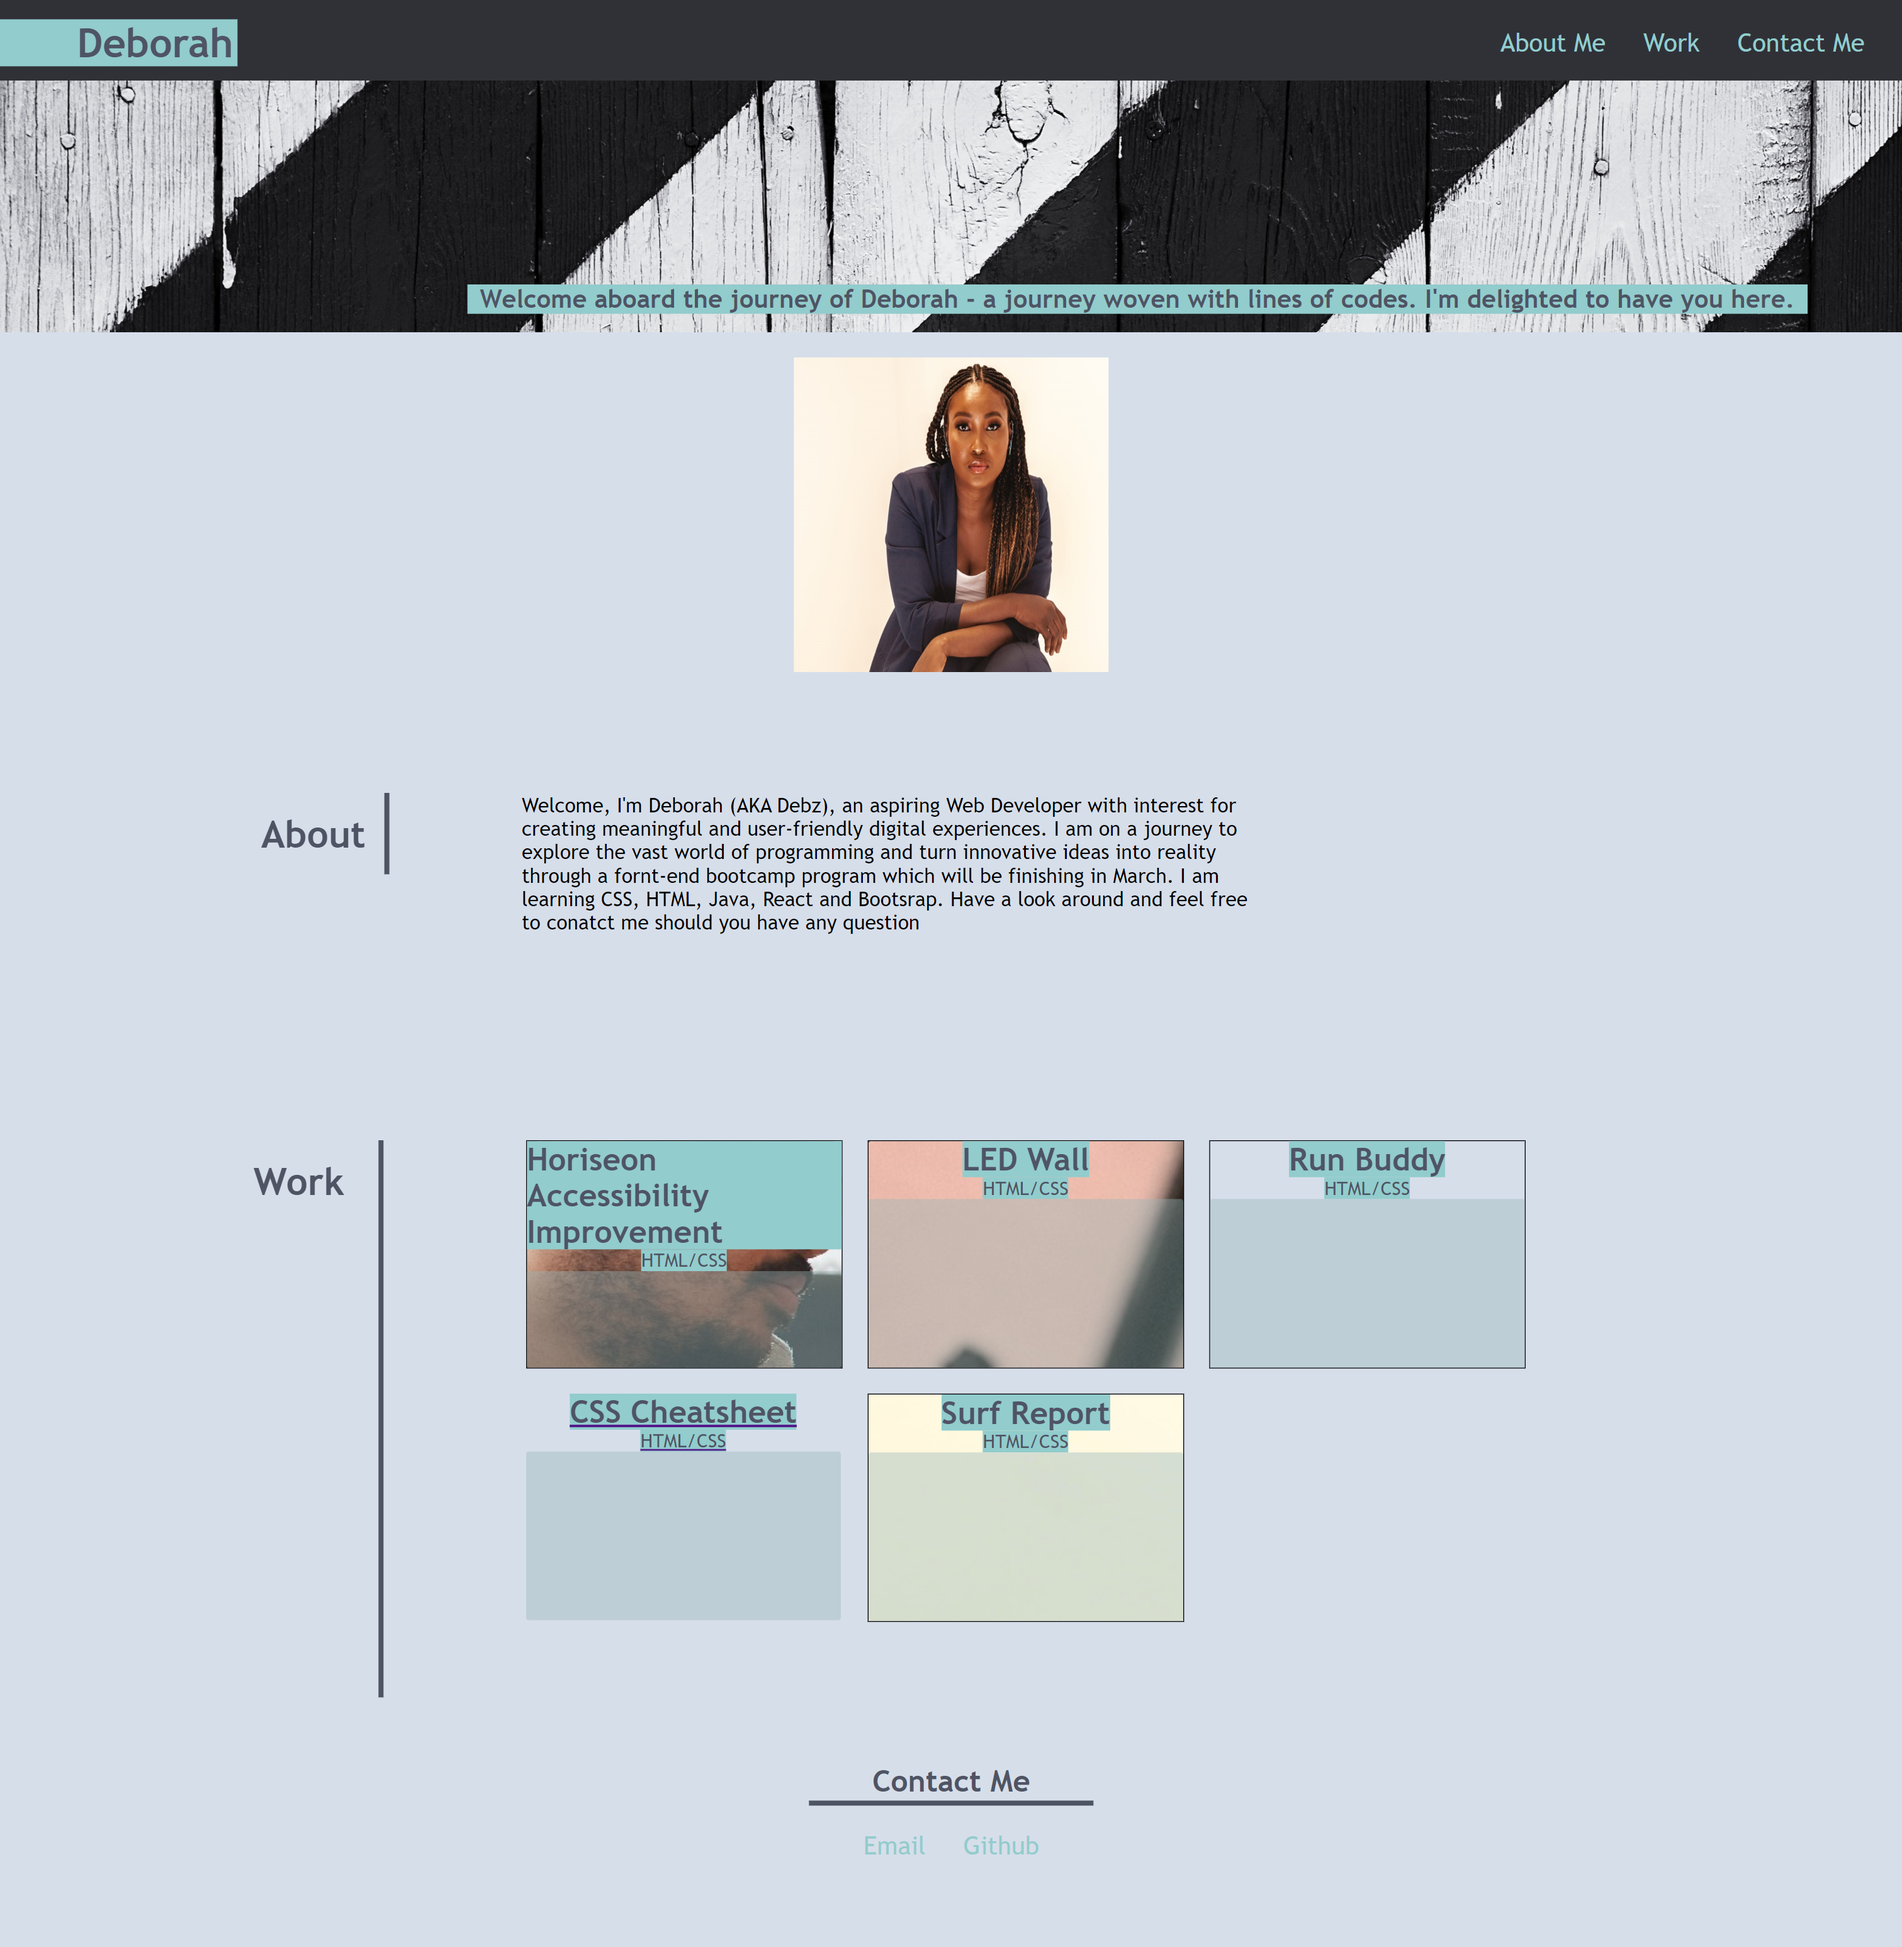
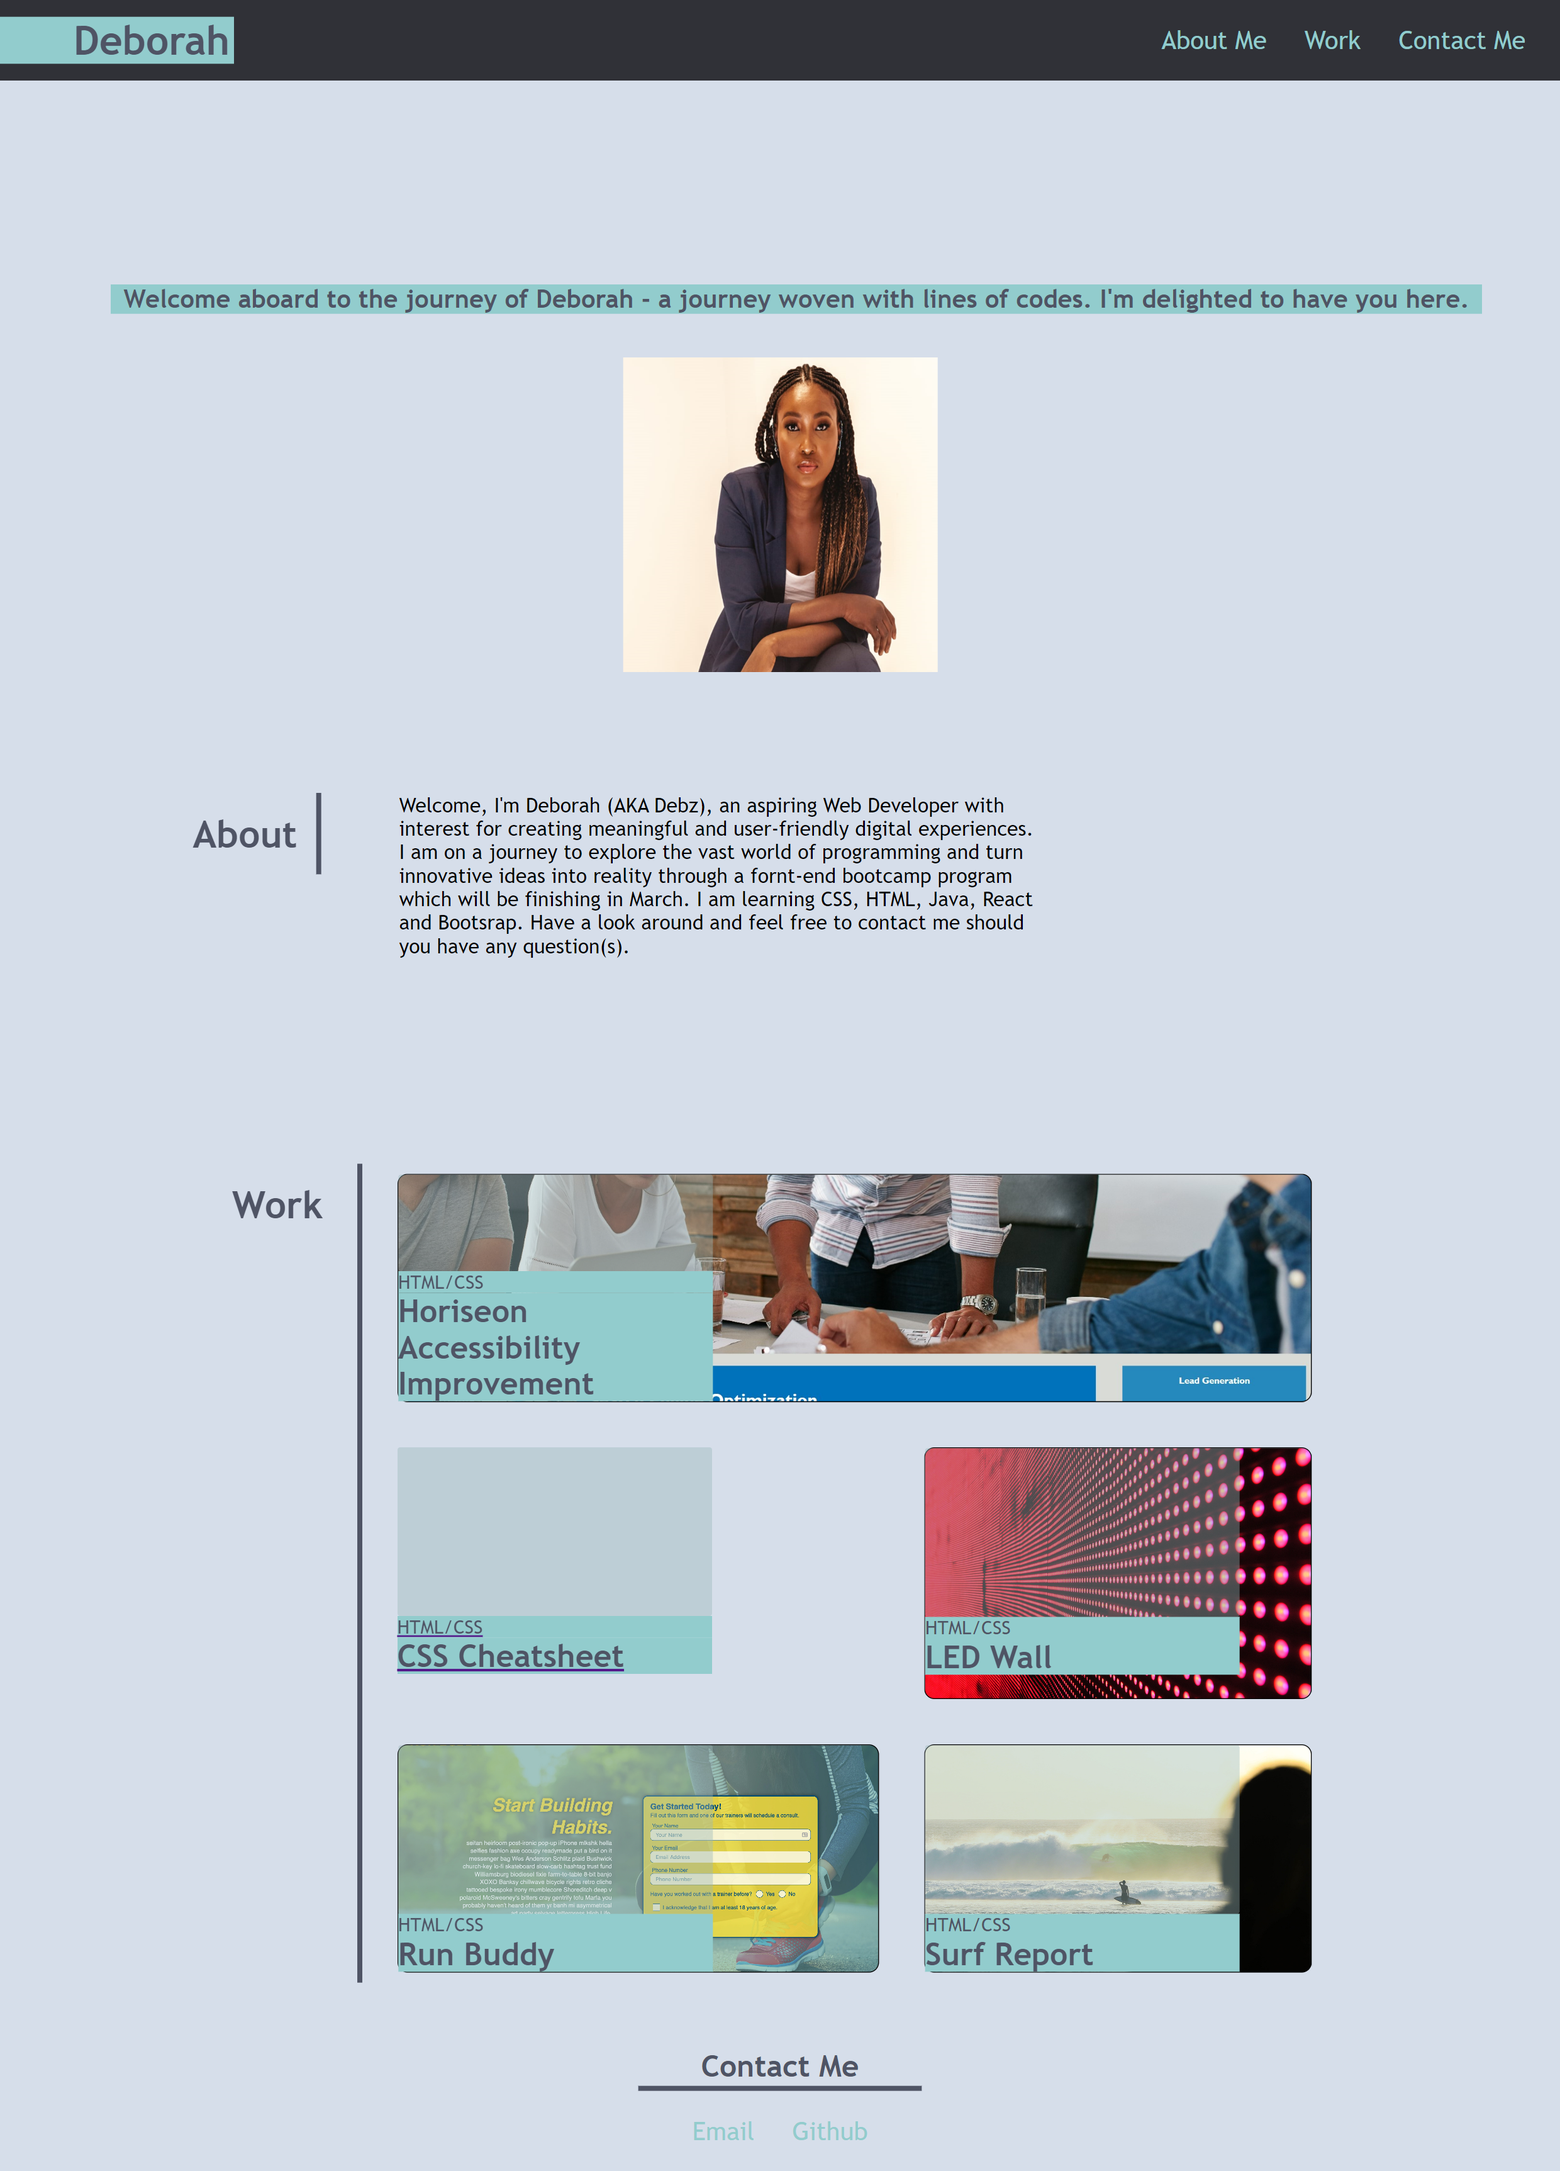
add more mediaQ ans css

diff --git a/style.css b/style.css
@@ -159,10 +159,11 @@ position: relative;
   
 }
 
-.aboutC p{
+.aboutC article{
   grid-area: aboutC;
+  display: flex;
   justify-content: center;
-  padding: 0px 43px;
+  max-width: 720px;
   margin-top: 4rem;
 }
 
@@ -236,8 +237,6 @@ position: relative;
 .workC{
   grid-area: workC;
   display: grid;
-  justify-content: center;
-  align-content: center;
   grid-template-columns: ( 150px 150px 150px );
   grid-template-rows: (120px 120px 120px 120px) ;
   gap: 20px;
@@ -257,9 +256,10 @@ position: relative;
   
 }
 
+
 .project1{
-  grid-template-areas: project1;
-  background-image: url(./images_png/project1.png);
+  grid-area: project1;
+  background-image: url(../images_png/project1.png);
   cursor: not-allowed;
   /* grid-column-start: 1;
   grid-column-end: 4;
@@ -269,8 +269,8 @@ position: relative;
   }
   
   .project2{
-    grid-template-areas: project2;
-    background-image: url(./images_png/02-portfolio-2.png);
+    grid-area: project2;
+    background-image: url(../images_png/02-portfolio-1.png);
     cursor: not-allowed;
     /* grid-column-start: 3;
     grid-column-end: 4;
@@ -279,8 +279,8 @@ position: relative;
    */
   }
   .project3{
-    grid-template-areas: project3;
-  background-image: url(./images_png/02-run-buddy.png);
+    grid-area: project3;
+  background-image: url(../images_png/02-run-buddy.png);
   cursor:not-allowed;
   /* grid-column-start: 1;
     grid-column-end: 3;
@@ -290,8 +290,8 @@ position: relative;
   
   .project4{
   
-    grid-template-areas: project4;
-    background-image: url(./images_png/project4.png);
+    grid-area: project4;
+    background-image: url(../images_png/css\ cheatsheet.png);
     cursor: pointer;
     /* grid-column-start: 1;
     grid-column-end: 3;
@@ -301,13 +301,24 @@ position: relative;
   
   .project5{
   
-    grid-template-areas: project5;
+  grid-area: project5;
   background-image: url(./images_png/02-portfolio-4.png);
   cursor: not-allowed;
+
   /* grid-column-start: 3;
     grid-column-end: 4;
     grid-row-start: 5;
     grid-row-end: 6; */
+  }
+  .project{
+    
+  position: relative;
+	background-position: center;
+	background-repeat: no-repeat;
+	background-size: cover;
+	border-radius: 0.5rem;
+	margin: 0.5rem;
+	transition: all 0.3s ease-in-out;
   }
 
  
@@ -319,12 +330,8 @@ position: relative;
     justify-items: center;
     height: 180px;
     width: 250px;
-
-
     color: var(--H2-FCOLOR);
-    
-    /* border-bottom-left-radius: 0.4rem;
-    border-bottom-right-radius: 0.4rem; */
+  
   
   }
   .label p{

diff --git a/mediaQueries.css b/mediaQueries.css
@@ -1,4 +1,4 @@
-@media only screen and (max-width: 600px){
+@media only screen and (min-width: 0px) and (max-width: 600px){
     header {
       height: 6rem;
       flex-direction: column;
@@ -60,4 +60,65 @@
         "project5 ";
     }
     
+}
+
+@media only screen and (min-width: 600px) and (max-width: 1024px){
+ 
+  
+  .name-wrapper{
+    padding: 0px 62px
+  }
+  /* ! about */
+  .about-section {
+    justify-content: center;
+    grid-template-columns: 70vw;
+    grid-template-rows: repeat(3, auto);
+    grid-template-areas: 
+      "aboutL"
+      "aboutC"
+      "aboutR";
+  }
+  
+  
+  .aboutL h2{
+    border-bottom: 4px solid var(--border-color);
+      text-align: start;
+      margin-bottom: 3vh;
+      padding-bottom: 3vh;
+      border-right: none;
+     
+  }
+  
+/* ! work */
+  .work-section {
+    justify-content: center;
+    grid-template-columns: 70vw;
+    grid-template-rows: repeat(3, auto);
+    grid-template-areas: 
+      "workL"
+      "workC"
+      "workR";
+  }
+
+  .workL{
+      border-bottom: 4px solid var(--border-color);
+        text-align: start;
+        margin-bottom: 3vh;
+        padding-bottom: 3vh;
+        border-right: none;
+       
+    }
+    
+  
+  .workC{
+    grid-template-columns: 70vw;
+    grid-template-rows: repeat(5, 125px);
+    grid-template-areas: 
+      "project1 "
+      "project2 "
+      "project3 "
+      "project4 "
+      "project5 ";
+  }
+  
 }

diff --git a/README.md b/README.md
@@ -22,3 +22,7 @@
 ### Max width 600px
 <!-- input screeshoot -->
 ![Max 600px](./images_png/media%20Q/max_600px.png)
+
+### Max width 1024px
+
+![Max 1024px](./images_png/media%20Q/max%201024.png)
